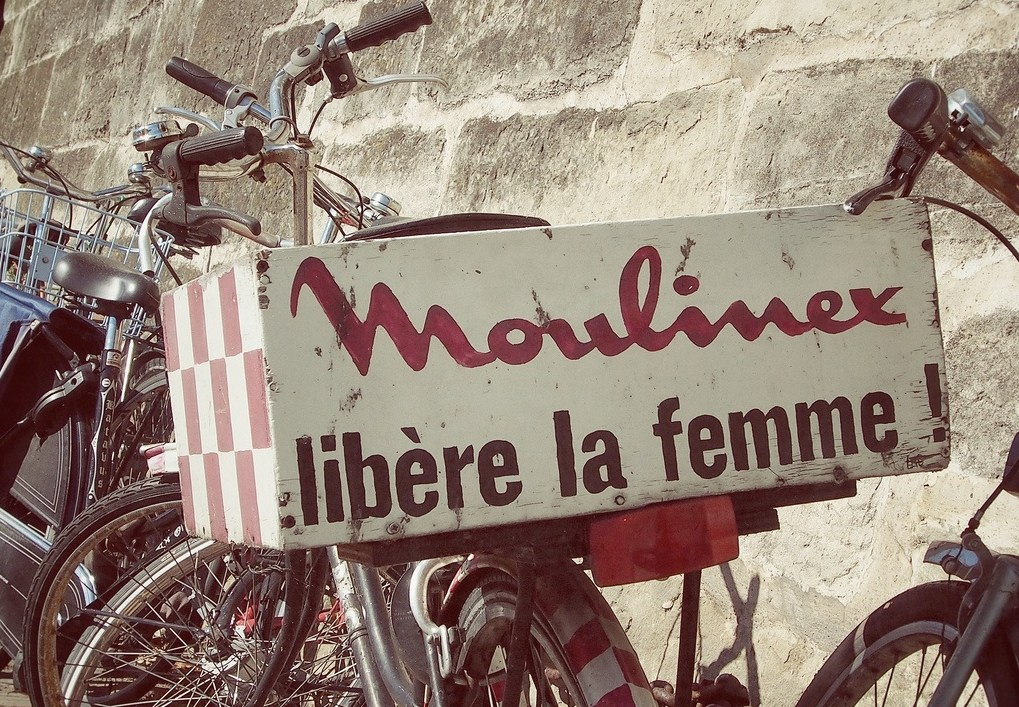
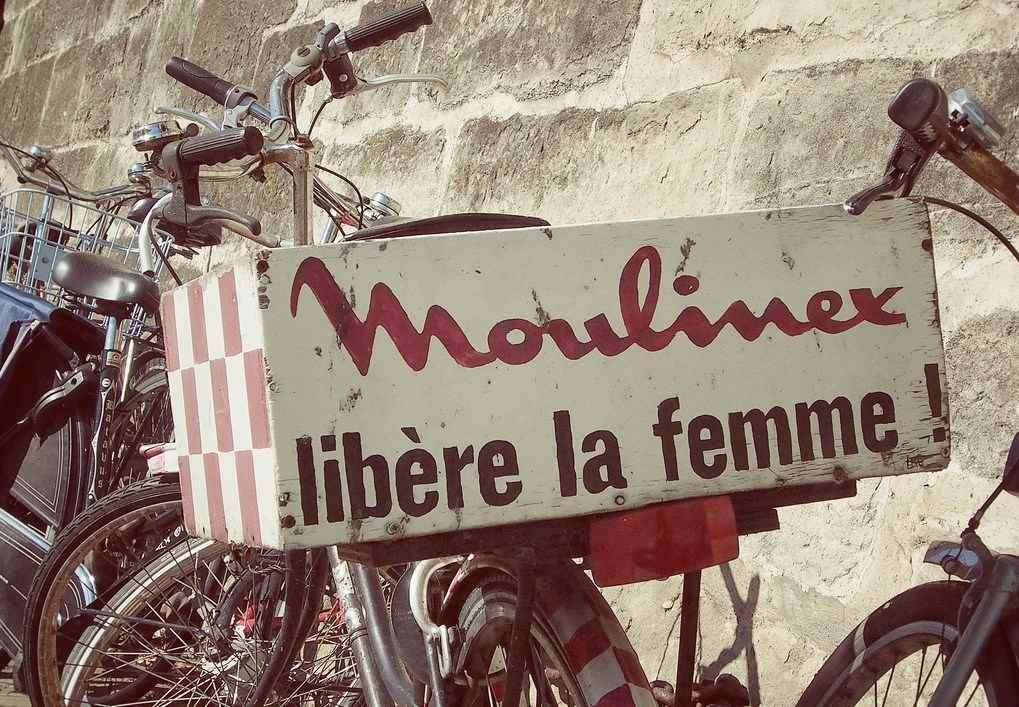
optimisations
compression images
modification css
remise à jour du htaccess

diff --git a/css/letsjam.css b/css/letsjam.css
@@ -2,7 +2,7 @@
 #content #main
 {
 	float: right;
-    min-width: 700px;
+    min-width: 400px;
 	 position: relative;
     width: 40%;
     z-index: 1;

diff --git a/index.html b/index.html
@@ -299,5 +299,6 @@ Et l'on vit comme ça jusqu'à la prochaine fois</pre>
 		</div>
 		</div>
 	</script>
+	
   </body>
 </html>

diff --git a/README.md b/README.md
@@ -1,7 +1,7 @@
 marianjatma
 ===========
 ===RAF===
-* recompresser et combiner les images, les scripts et les css
+* recompresser et combiner les ~~images~~, les scripts et les css
 * passage secret KC
 * utiliser uniquement un infoWindow pour les logis (très très optionnel, tester sous IE et Chrome)
 * ~~vérifier la geoloc sur les hôtels~~
